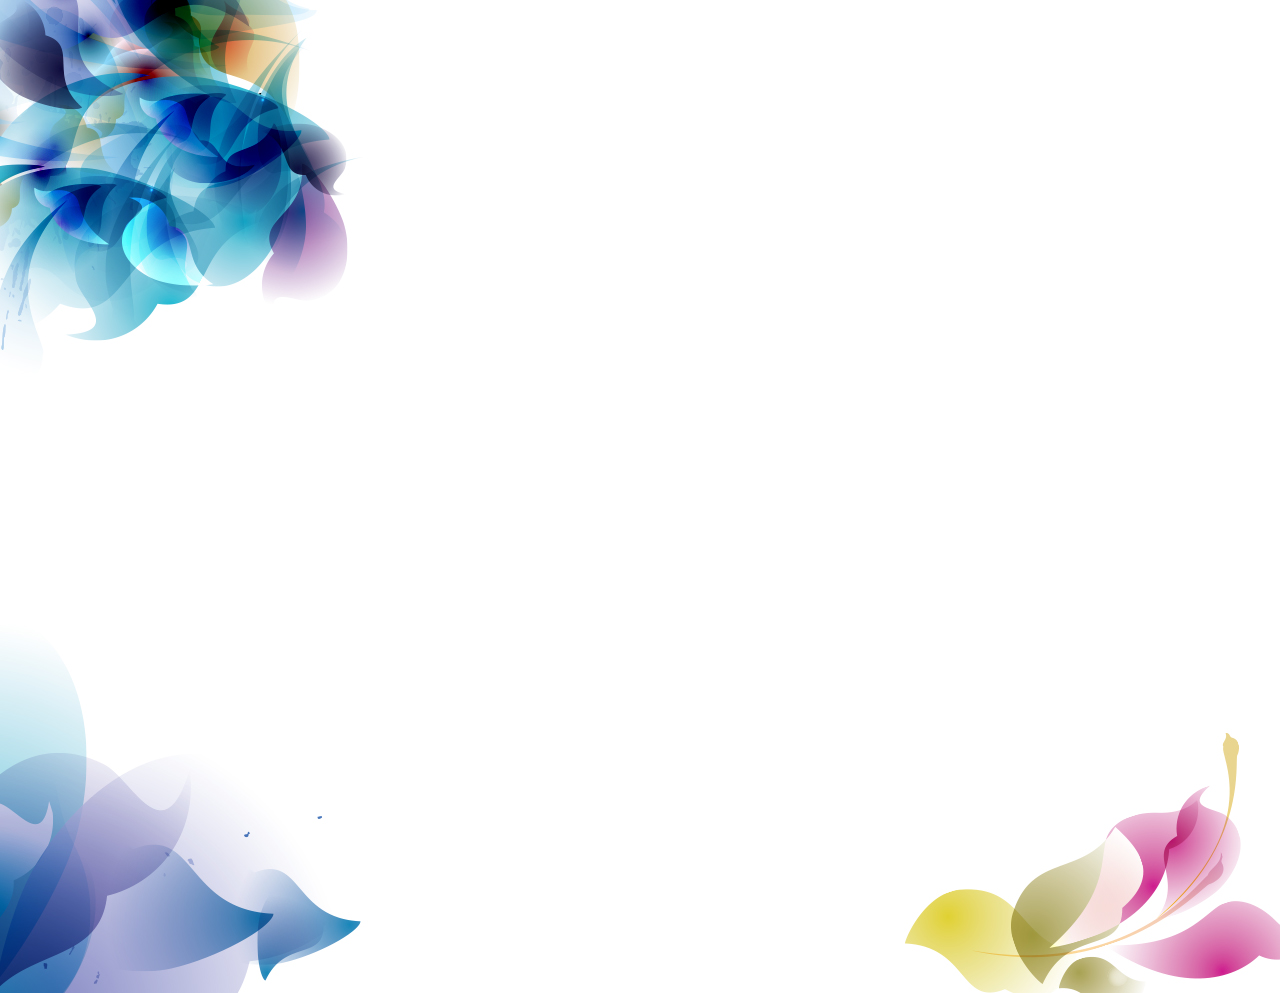
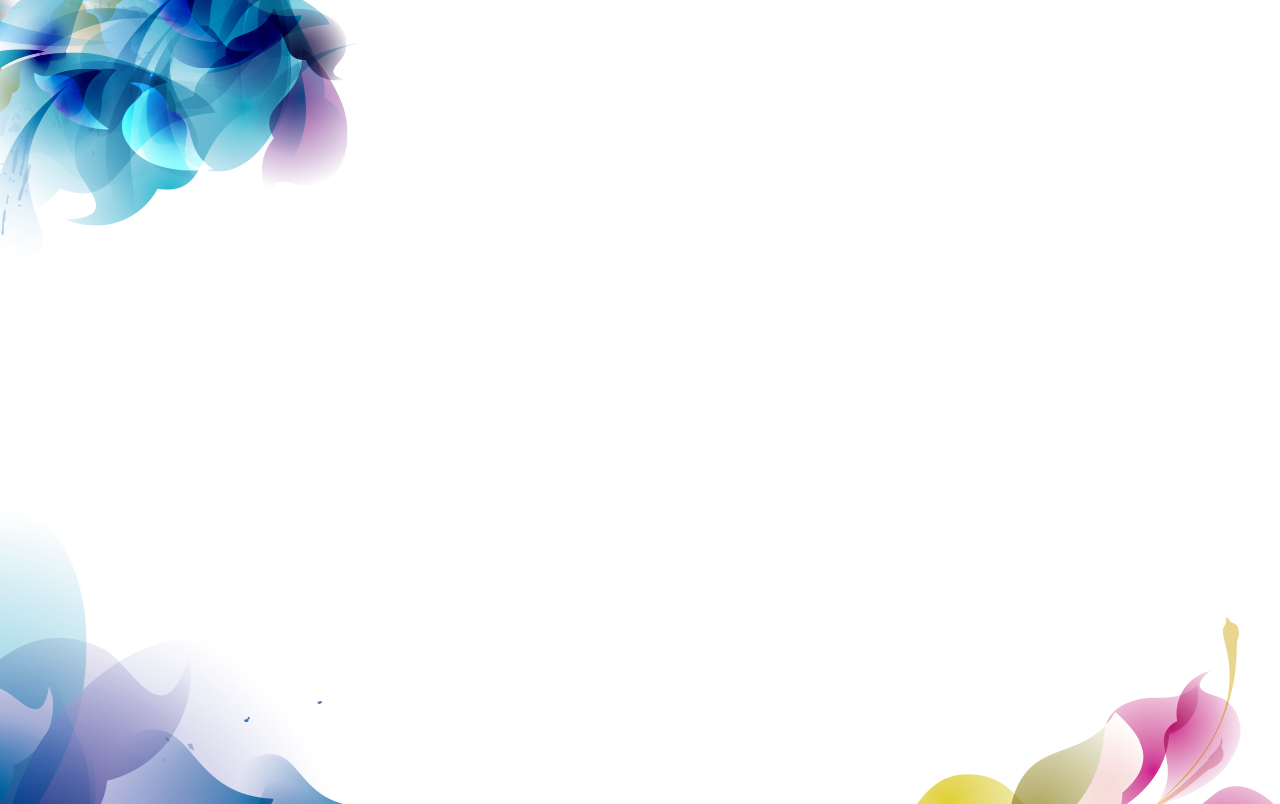
add contact.html edit background image of visitor.html

Changed region(s): [[0.0, 0.0, 0.2812, 0.342], [0.0, 0.7463, 0.2812, 1.0], [0.6875, 0.7463, 1.0, 1.0]]

diff --git a/contact.html b/contact.html
@@ -1,0 +1,114 @@
+<!DOCTYPE html>
+<html class="no-js">
+<head>
+    <meta charset="utf-8">
+    <meta http-equiv="X-UA-Compatible" content="IE=edge">
+    <title>ASEANbeauty</title>
+    <meta name="description" content="">
+    <meta name="viewport" content="width=device-width, initial-scale=1">
+    <!-- Place favicon.ico and apple-touch-icon(s) in the root directory -->
+    <link rel="stylesheet" href="css/normalize.css">
+    <link rel="stylesheet" href="css/fonts.css">
+    <link rel="stylesheet" href="css/main.css">
+    <link rel="stylesheet" href="css/asianbeauty.css">
+    <script src="js/vendor/modernizr-2.7.1.min.js"></script>
+</head>
+<body>
+    <header id="header" class="clearfix">
+        <div class="container">
+            <nav id="nav">
+                <h1 class="pull-left logo-wrap">
+                    <img class="logo-img" src="img/logo.png" alt="aseanbeauty's logo" />
+                </h1>
+                <ul class="navbar pull-left">
+                    <li><a class="nav-item home text-color-dark-gray" href="intro" title="home page" alt="link">Home</a></li>
+                    <li><a class="nav-item text-color-dark-gray" href="exhibit" title="who exhibit page" alt="link">Who Exhibit</a></li>
+                    <li><a class="nav-item text-color-dark-gray" href="visitor" title="visitor page" alt="link">Visitor</a></li>
+                    <li><a class="nav-item text-color-dark-gray" href="press.html" title="press center page" alt="link">Press Center</a></li>
+                    <li><a class="nav-item text-color-dark-gray" href="about" title="about us page" alt="link">About Us</a></li>
+                    <li><a class="nav-item text-color-dark-gray" href="contact.html" title="contact us page" alt="link">Contact Us</a></li>
+                </ul>
+            </nav>
+        </div>
+    </header>
+    <div id="main" class="clearfix">
+        <section id="contact" class="section">
+            <div class="container clearfix">
+                <h1 class="title myriad-probold-condensed">Get in Touch</h1>
+                <address class="contact-info pull-left"">
+                    <p class="company-name myriad-probold-condensed text-color-dark-gray gap">UBM Asia (Thailand) Co.,Ltd.</p>
+                    <p class="company-address gap">503/23 KSL Tower, 14th Floor, Sri Ayuthaya Road, Thanon Phayathai, Rajathewee, Bangkok 10400 Thailand</p>
+                    <p class="company-tel">66 (0) 2642 6911 </p>
+                    <p class="company-fax gap">66 (0) 2642 6919-20 </p>
+                    <p class="company-email gap"><a class="text-color-dark-gray" href="mailto:Siriwan.S@ubm.com">Siriwan.S@ubm.com</a><br /><a class="text-color-dark-gray indent" href="mailto:Ramol.U@ubm.com">Ramol.U@ubm.com</a></p>
+                    <p class="company-person">Ms. Siriwan, Ms. Ramol</p>
+                </address>
+                <div class="form pull-right">
+                    <p class="question text-bold">Have an enquiry ?</p>
+                    <p>Please fill this form, we will get back to you as soon as possible.</p>
+                    <form>
+                        <table class="table-form">
+                            <tr>
+                                <td><label class="control lbl required">Name:</label></td>
+                                <td><label class="control lbl required">Job Title: </label></td>
+                            </tr>
+                            <tr class="">
+                                <td><input id="name" class="control input-text gap-bottom gap-right" type="text" /></td>
+                                <td><input id="job-title" class="control input-text gap-bottom" type="text" /></td>
+                            </tr>
+                            <tr>
+                                <td><label class="control lbl required">Company:</label></td>
+                                <td><label class="control lbl required">Email Address:</label></td>
+                            </tr>
+                            <tr>
+                                <td><input id="company" class="control input-text gap-bottom" type="text" /></td>
+                                <td><input id="email" class="control input-text gap-bottom" type="text" /></td>
+                            </tr>
+                            <tr>
+                                <td><label class="control lbl required">Telephone:</label></td>
+                                <td><label class="control lbl">Fax:</label></td>
+                            </tr>
+                            <tr>
+                                <td><input id="tel" class="control input-text gap-bottom" type="text" /></td>
+                                <td><input id="fax" class="control input-text gap-bottom" type="text" /></td>
+                            </tr>
+                            <tr>
+                                <td colspan="2"><label class="control lbl required">Your Enquiry:</label></td>
+                            </tr>
+                            <tr>
+                                <td colspan="2"><textarea class="control text-field gap-bottom"></textarea></td>
+                            </tr>
+                            <tr>
+                                <td colspan="2"><input class="control btn" type="submit" value="send message" /></td>
+                            </tr>
+                        </table>
+                    </form>
+                </div>
+            </div>
+        </section>
+    </div>
+    <footer id="footer" class="clearfix">
+        <div class="container">
+            <img class="pull-right logo-ubm" src="img/ubm.png" alt="UBM logo" />
+            <p>Copyright © 2013 Philippines International Beauty Show.</p>
+            <p>All rights reserved.</p>
+
+        </div>
+    </footer>
+    <!--<script src="//ajax.googleapis.com/ajax/libs/jquery/1.10.2/jquery.min.js"></script>-->
+    <script>        window.jQuery || document.write('<script src="js/vendor/jquery-1.10.2.min.js"><\/script>')</script>
+    <script src="js/waypoints.min.js"></script>
+    <script src="js/plugins.js"></script>
+    <!-- Google Analytics: change UA-XXXXX-X to be your site's ID. -->
+    <script>
+        (function (b, o, i, l, e, r) {
+            b.GoogleAnalyticsObject = l; b[l] || (b[l] =
+            function () { (b[l].q = b[l].q || []).push(arguments) }); b[l].l = +new Date;
+            e = o.createElement(i); r = o.getElementsByTagName(i)[0];
+            e.src = '//www.google-analytics.com/analytics.js';
+            r.parentNode.insertBefore(e, r)
+        } (window, document, 'script', 'ga'));
+        ga('create', 'UA-XXXXX-X'); ga('send', 'pageview');
+    </script>
+</body>
+</html>

diff --git a/css/asianbeauty.css b/css/asianbeauty.css
@@ -8,6 +8,10 @@ p {
     padding: 0;
 }
 
+address {
+    font-style: normal;
+}
+
 #header, #main, #footer {
     min-width: 1280px;
     margin: 0;
@@ -62,7 +66,7 @@ p {
 }
 
 [class*="-content"] p {
-    font-size: 1.2em;
+    font-size: 1.1em;
     line-height: 1.1em;
     margin: 5px 0;
 }
@@ -283,7 +287,7 @@ p {
 
 #visitor {
     background: url(../img/visitor-detail-bg.jpg) 0 0 no-repeat;
-    height: 981px;
+    height: 804px;
     position: relative;
     z-index: 3;
 }
@@ -298,7 +302,7 @@ p {
     }
 
 #visitor .visitor-content {
-    margin: 45px 0 0 0;
+    margin: 25px 0 0 0;
     width: 380px;
 }
 
@@ -468,7 +472,7 @@ p {
 /* Home detail */
 
 .home-detail-top {
-    background-color: #ff9966;
+    background: #ff9966 url(../img/home-detail-top-bg.jpg) no-repeat 100% 100%;
     color: #fff;
     min-height: 318px;
     padding: 20px 0;
@@ -577,3 +581,121 @@ p {
     .home-detail-bottom .img-bottom-2 {
         right: 0;
     }
+
+/* contact us */
+#contact {
+    background: url(../img/contact-detail-bg.jpg) no-repeat 0 0;
+    height: 715px;
+}
+
+#contact .title {
+    border-bottom: 1px solid #59595b;
+    margin-bottom: 20px;
+    padding-bottom: 15px;
+}
+
+#contact .contact-info {
+    color: #59595b;
+    padding: 0 30px 0 15px;
+    width: 235px;
+}
+
+#contact .form {
+    border-left: 1px solid #59595b;
+    padding: 0 0 0 40px;
+    width: 675px;
+}
+
+.contact-info .company-name {
+    font-size: 1.2em;
+}
+
+.contact-info [class*="company-"]:before {
+    font-family: 'myriad_probold_condensed', Helvetica, sans-serif;
+}
+
+.contact-info .gap {
+    margin-bottom: 20px;
+}
+
+.contact-info .company-address:before {
+    content: "Address: ";
+}
+
+.contact-info .company-tel:before {
+    content: "Tel: ";
+}
+
+.contact-info .company-fax:before {
+    content: "Fax: ";
+}
+
+.contact-info .company-email:before {
+    content: "Email: ";
+}
+
+.contact-info .indent {
+    padding-left: 38px;
+}
+
+.contact-info .company-person:before {
+    content: "Contact person: ";
+}
+
+.form .question {
+    font-size: 1.2em;
+}
+
+/* Form Control */
+
+.control {
+    background: none;
+    border: none;
+}
+
+.lbl {
+    color: #566381;
+}
+
+.required:after {
+    content: " (required)";
+    font-style: italic;
+}
+
+.input-text, .text-field {
+    background-color: #f8f8f8;
+    border: 1px solid #ebebeb;
+}
+
+.input-text {
+    height: 25px;
+    line-height: 25px;
+    width: 305px;
+}
+
+.text-field {
+    height: 100px;
+    width: 100%;
+}
+
+.btn {
+    background-color: #cf1e38;
+    border-color: #e4808f;
+    color: #fff;
+    font-size: 0.9em;
+    height: 29px;
+    letter-spacing: 0.5px;
+    line-height: 29px;
+    padding: 0 15px;
+    text-transform: uppercase;
+}
+
+.gap-bottom {
+    margin-bottom: 20px;
+}
+.gap-right {
+    margin-right: 25px;
+}
+.table-form {
+    border-collapse: separate;
+}

diff --git a/visitor.html b/visitor.html
@@ -3,7 +3,7 @@
 <head>
     <meta charset="utf-8">
     <meta http-equiv="X-UA-Compatible" content="IE=edge">
-    <title>ASEANbeauty</title>
+    <title>ASEANbeauty - Visitor</title>
     <meta name="description" content="">
     <meta name="viewport" content="width=device-width, initial-scale=1">
     <!-- Place favicon.ico and apple-touch-icon(s) in the root directory -->
